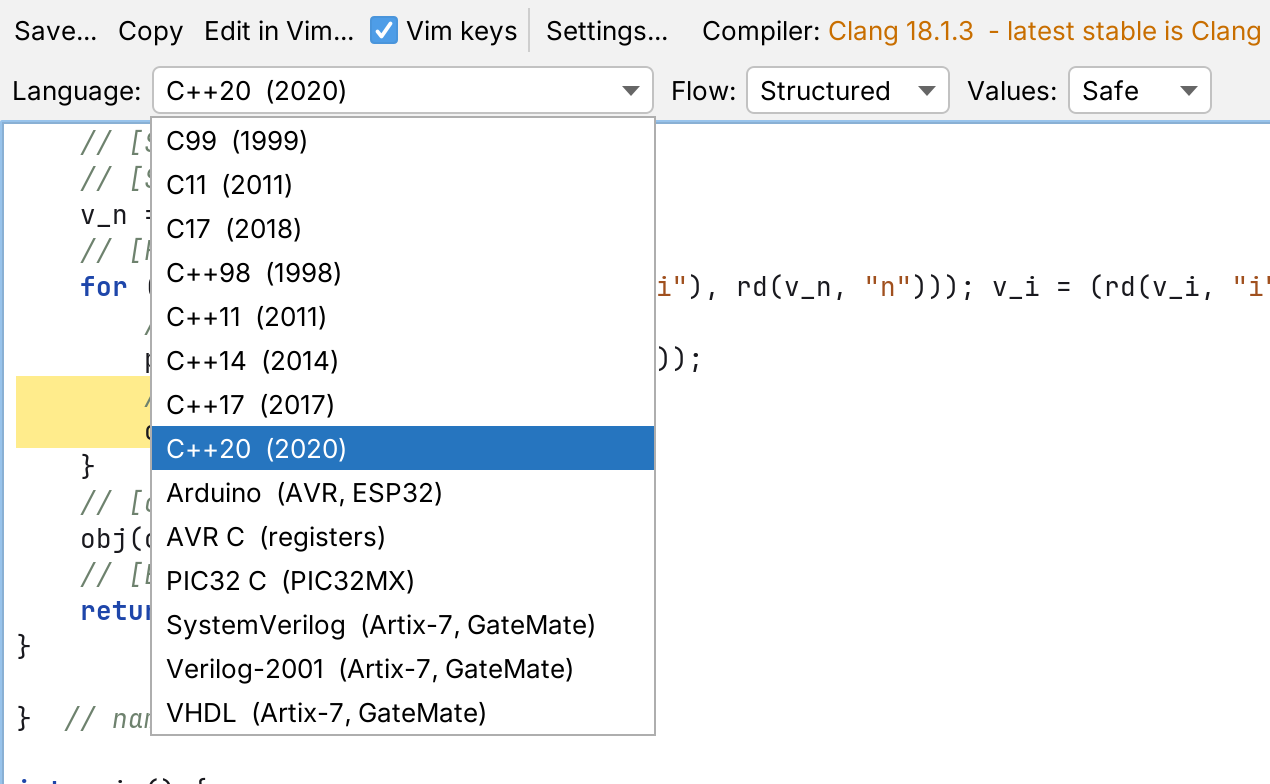
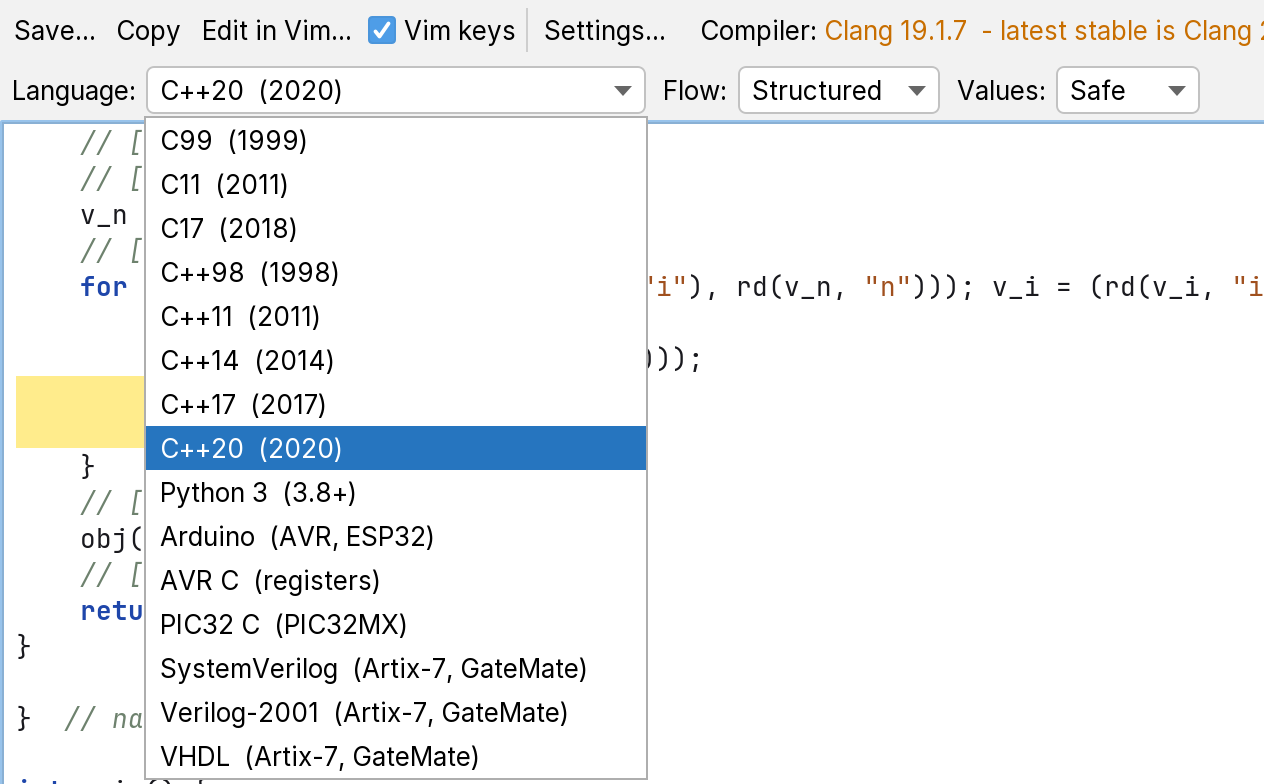
Site: Python 3 gets its own section, steps and screenshots
The front page now says what Python support is, not only that it
exists: Python in the menu and the opening paragraph, a feature section
with a screenshot of a Python program running in the code window, "Your
first Python program in four steps" with the command line, a highlight
on Python being found by itself, the download note that generated
Python needs only Python 3.8, and the Linux Python row in the test table
(36 combinations now). All of it in the seven site languages.

The language menu and list screenshots are taken again so Python shows
in them, and the screenshot tour gains a Python step (35-python-run).

diff --git a/site/index.html b/site/index.html
@@ -37,6 +37,7 @@
   <nav aria-label="Main">
     <a href="#features">Features</a>
     <a href="#tutorial">Tutorial</a>
+    <a href="#python">Python</a>
     <a href="#fpga">FPGA</a>
     <a href="#download">Download</a>
     <a href="#docs">Docs</a>
@@ -74,7 +75,7 @@
   <div class="hero-text">
     <h1>Draw a program.<br>Pick its language.</h1>
     <div class="hero-grid">
-      <p class="lede">EVIA Paradigma is visual programming for people who like to see what the machine gets. The diagram is the program; the language is a setting. Wire blocks on a canvas, run them, then choose what they become: C99 to C++20 built with Clang or GCC, an Arduino sketch, bare-metal C for an AVR or PIC32 chip, or SystemVerilog, Verilog or VHDL for an FPGA.</p>
+      <p class="lede">EVIA Paradigma is visual programming for people who like to see what the machine gets. The diagram is the program; the language is a setting. Wire blocks on a canvas, run them, then choose what they become: C99 to C++20 built with Clang or GCC, a Python 3 program, an Arduino sketch, bare-metal C for an AVR or PIC32 chip, or SystemVerilog, Verilog or VHDL for an FPGA.</p>
       <div class="side">
         <p class="actions">
           <a class="btn primary" href="#download">Download {{VERSION}}</a>
@@ -157,7 +158,7 @@
         FPGA, and Run executes the diagram itself, so you can compare its output with any of them. Where a target
         cannot keep a block, the error names that block instead of quietly changing what the program means.</p>
     </div>
-    <img src="img/24-menu-code-language.png" loading="lazy" width="1536" height="1220" alt="The Code Language and Mode menu, open: C99 to C++20, Arduino, AVR C, PIC32 C, SystemVerilog, Verilog-2001 and VHDL, with the flow and values below them.">
+    <img src="img/24-menu-code-language.png" loading="lazy" width="1516" height="1286" alt="The Code Language and Mode menu, open: C99 to C++20, Python 3, Arduino, AVR C, PIC32 C, SystemVerilog, Verilog-2001 and VHDL, with the flow and values below them.">
   </article>
 
   <article class="feature flip">
@@ -174,6 +175,18 @@
 
   <article class="feature">
     <div class="feature-text">
+      <h3>Python 3, nothing to compile</h3>
+      <p>Choose Python 3 and the same diagram becomes one .py file that runs on Python 3.8 or newer, with no packages
+        and no compiler. Classes become Python classes and program variables module globals; Run in the code window
+        starts the program, and text typed into Input goes to it. Python has no goto, so <b>Structured</b> writes
+        if/else and while loops and <b>Goto</b> becomes a small state machine with one branch per block. Print, Input,
+        the number text and every error message are the interpreter's own.</p>
+    </div>
+    <img src="img/35-python-run.png" loading="lazy" width="2120" height="1520" alt="The tutorial program as Python 3 in the code window, run with Python 3.13; the lines of the c.add(i) block are highlighted.">
+  </article>
+
+  <article class="feature flip">
+    <div class="feature-text">
       <h3>See the code of any block</h3>
       <p>Right-click a block and choose View source code: the generated file opens with exactly the lines that
         block became highlighted. It works for a whole method or class too, in whichever language you chose.
@@ -183,7 +196,7 @@
     <img src="img/11-compile-run.png" loading="lazy" width="2120" height="1520" alt="Generated C++ with the lines of the c.add(i) block highlighted, compiled with Clang and run.">
   </article>
 
-  <article class="feature flip">
+  <article class="feature">
     <div class="feature-text">
       <h3>Arduino and ESP32 boards</h3>
       <p>Pin Mode, Digital Write and Read, Analog Read and Write, Delay and Millis are blocks too. One Arduino sketch builds for the Uno, Nano, Mega 2560, Leonardo, Micro and Pro Mini, and for the ESP32, ESP32-S2, -S3, -C3, -C6 and -H2. UART, SPI, I2C and MQTT are blocks as well. Run simulates an Uno on your computer, with every pin change in the output, so you can try a program before there is a board on your desk.</p>
@@ -191,7 +204,7 @@
     <img src="img/27-board-simulated.png" loading="lazy" width="2360" height="1760" alt="The blink example with the Board blocks in the palette; the output shows the simulated pin 13 switching every 500 ms.">
   </article>
 
-  <article class="feature">
+  <article class="feature flip">
     <div class="feature-text">
       <h3>Bare metal, down to the registers</h3>
       <p>AVR C writes the program for the ATmega328P, ATmega2560 or ATmega32U4 without the Arduino core:
@@ -208,7 +221,7 @@
     <img src="img/29-avr-build.png" loading="lazy" width="2360" height="1720" alt="The blink program as bare-metal AVR C, built with avr-gcc 14 for the Arduino Uno: 4032 bytes of code.">
   </article>
 
-  <article class="feature flip">
+  <article class="feature">
     <div class="feature-text">
       <h3>Zoom and move the canvas with the mouse</h3>
       <p>Turn the wheel over a diagram to zoom between 25% and 300%, toward the pointer. Blocks, text and wires stay sharp, and you can keep editing at any size. Ctrl+0 returns to 100%, Ctrl+9 fits the whole diagram. New in 0.6.1: hold the middle mouse button and drag to move the canvas, from empty space or from a block.</p>
@@ -216,7 +229,7 @@
     <img src="img/25-zoom-in.png" loading="lazy" width="2360" height="1760" alt="The diagram zoomed in to 161 percent.">
   </article>
 
-  <article class="feature">
+  <article class="feature flip">
     <div class="feature-text">
       <h3>Projects, Git and GitHub</h3>
       <p>File, New Project creates a folder with the program, a modules folder, a README and a Git repository.
@@ -229,6 +242,7 @@
   <ul class="extras">
     <li><b>Vim everywhere.</b> Code fields, the code window and commit messages have Vim keys; Edit in Vim opens the real one.</li>
     <li><b>Command line.</b> <code>evia --run program.evia</code> and <code>evia --gen program.evia --lang c11 -o program.c</code> for scripts and Makefiles.</li>
+    <li><b>Python found by itself.</b> Settings, Python uses python3, or the py launcher on Windows, with no setup; Check shows the version.</li>
     <li><b>Clang or GCC.</b> Settings switches between them; on Windows either one installs itself, no Visual Studio needed.</li>
     <li><b>Dark mode.</b> The app looks like IntelliJ IDEA, with Inter and JetBrains Mono. View, Theme picks light, dark or the system's.</li>
     <li><b>Built-in guide.</b> Help, Guide (F1) explains every block, expression, class feature, shortcut and Vim key, in English, Russian and Armenian.</li>
@@ -253,6 +267,22 @@
   </ol>
 </section>
 
+<section class="tutorial" id="python" aria-labelledby="python-h">
+  <h2 id="python-h">Your first Python program in four steps</h2>
+  <p class="section-lede">Any diagram runs as Python. All it needs is Python 3.8 or newer from python.org, which EVIA Paradigma finds by itself.</p>
+  <ol class="steps">
+    <li><h3>Choose Python 3</h3><p>Pick Python 3 in the Language list, in the toolbar or in the code window.</p></li>
+    <li><h3>Generate the Python code</h3><p>Press F7. Right-click a block and choose View source code to see the lines it became.</p></li>
+    <li><h3>Run it in the code window</h3><p>Press Run. Text typed into Input goes to the program, and an error stops it with the same message as in the editor.</p></li>
+    <li><h3>Keep the .py file</h3><p>Save writes the file, and it runs anywhere with python3 program.py.</p></li>
+  </ol>
+  <pre class="cli"><code>java -jar evia-paradigma.jar --gen examples/tutorial.evia --lang python -o tutorial.py
+python3 tutorial.py
+# goto flow and fast values work too
+java -jar evia-paradigma.jar --gen examples/tutorial.evia --lang python --flow goto --values fast -o tutorial.py</code></pre>
+  <p class="fine">Settings, Python holds the command: python3, the py launcher on Windows, or a full path. Detect looks for it again and Check shows its version.</p>
+</section>
+
 <section class="tutorial" id="fpga" aria-labelledby="fpga-h">
   <h2 id="fpga-h">Your first FPGA program in four steps</h2>
   <p class="section-lede">The same blink diagram becomes hardware for Artix-7 and GateMate boards. The full tutorial, step 10, is in the PDF above, and the guide has an FPGA topic (F1).</p>
@@ -272,7 +302,7 @@ java -jar evia-paradigma.jar --gen examples/fpga/blink.evia --lang vhdl --board 
 <section class="download" id="download" aria-labelledby="download-h">
   <h2 id="download-h">Download EVIA Paradigma {{VERSION}}</h2>
   <p class="section-lede">Each installer brings its own Java runtime, so nothing else needs to be installed.
-    To compile the generated code you need Clang or GCC (the app sets either up on Windows).</p>
+    To compile the generated code you need Clang or GCC (the app sets either up on Windows); generated Python needs only Python 3.8 or newer.</p>
   <table class="dl">
     <thead><tr><th scope="col">System</th><th scope="col">File</th><th scope="col">Notes</th></tr></thead>
     <tbody>
@@ -298,14 +328,14 @@ java -jar evia-paradigma.jar --gen examples/fpga/blink.evia --lang vhdl --board 
 
 <section class="tested" aria-labelledby="tested-h">
   <h2 id="tested-h">Tested against its own interpreter</h2>
-  <p class="section-lede">On every change, CI generates every example and test program in all 32 combinations of
-    language, flow and values, compiles it with warnings as errors, runs it, and compares stdout, stderr and the
+  <p class="section-lede">On every change, CI generates every example and test program in all 36 combinations of language, flow and values, compiles it with warnings as errors (Python: checks it), runs it, and compares stdout, stderr and the
     exit code with the interpreter.</p>
   <table class="results">
     <thead><tr><th scope="col">Where</th><th scope="col">Compiler</th><th scope="col">Identical to the interpreter</th></tr></thead>
     <tbody>
       <tr><td>Linux, all 8 C and C++ standards</td><td>Clang 23</td><td>416 of 416</td></tr>
       <tr><td>Linux, all 8 C and C++ standards</td><td>GCC 13</td><td>416 of 416</td></tr>
+      <tr><td>Linux, Python 3: every example and test, both flows, both value modes</td><td>Python 3.12</td><td>52 of 52</td></tr>
       <tr><td>Windows, C99, C17, C++98, C++14, C++20</td><td>llvm-mingw Clang 23, static</td><td>260 of 260</td></tr>
       <tr><td>Windows, C99, C17, C++98, C++14, C++20</td><td>WinLibs GCC 16, static</td><td>260 of 260</td></tr>
       <tr><td>Board examples, bare-metal AVR C in simavr (ATmega328P, 2560, 32U4)</td><td>avr-gcc 14</td><td>30 of 30</td></tr>

diff --git a/scripts/screenshots/evia/paradigma/Tour.java b/scripts/screenshots/evia/paradigma/Tour.java
@@ -243,6 +243,13 @@ public class Tour {
         waitFor(() -> out.getText().contains("exited with code") || out.getText().contains("failed") ? Boolean.TRUE : null, "compile C++17");
         settle(800);
         capture(cv, "23-cpp17-goto-fast");
+        ui(() -> Settings.setTarget(new Target(Target.Lang.PYTHON, Target.Flow.STRUCTURED, Target.Values.SAFE)));
+        waitFor(() -> cv.getTitle().contains("Python") ? Boolean.TRUE : null, "Python code");
+        settle(500);
+        click(cv.getContentPane(), "Run");
+        waitFor(() -> out.getText().contains("exited with code") ? Boolean.TRUE : null, "run Python");
+        settle(800);
+        capture(cv, "35-python-run");
         ui(() -> Settings.setTarget(Target.DEFAULT));
         settle(500);
         ui(() -> cv.setVisible(false));

diff --git a/README.md b/README.md
@@ -921,7 +921,7 @@ bit name exists with the right type. It does **not** run the program, and nothin
 a chip, so pin assignments, `#pragma config` names for a particular part, and timing are unproven. Treat the first
 build on real hardware as a test, and please report what you find.
 
-<p align="center"><img src="docs/screenshots/31-language-list.png" alt="The Language list: C99 to C++20, Arduino, AVR C, PIC32 C, SystemVerilog, Verilog-2001 and VHDL" width="760"></p>
+<p align="center"><img src="docs/screenshots/31-language-list.png" alt="The Language list: C99 to C++20, Python 3, Arduino, AVR C, PIC32 C, SystemVerilog, Verilog-2001 and VHDL" width="760"></p>
 
 How the board code is tested: CI builds the bare-metal AVR C of every board example for all three chips with
 `-Wall -Wextra -Werror`, in both flows, and runs each build in [simavr](https://github.com/buserror/simavr). The
